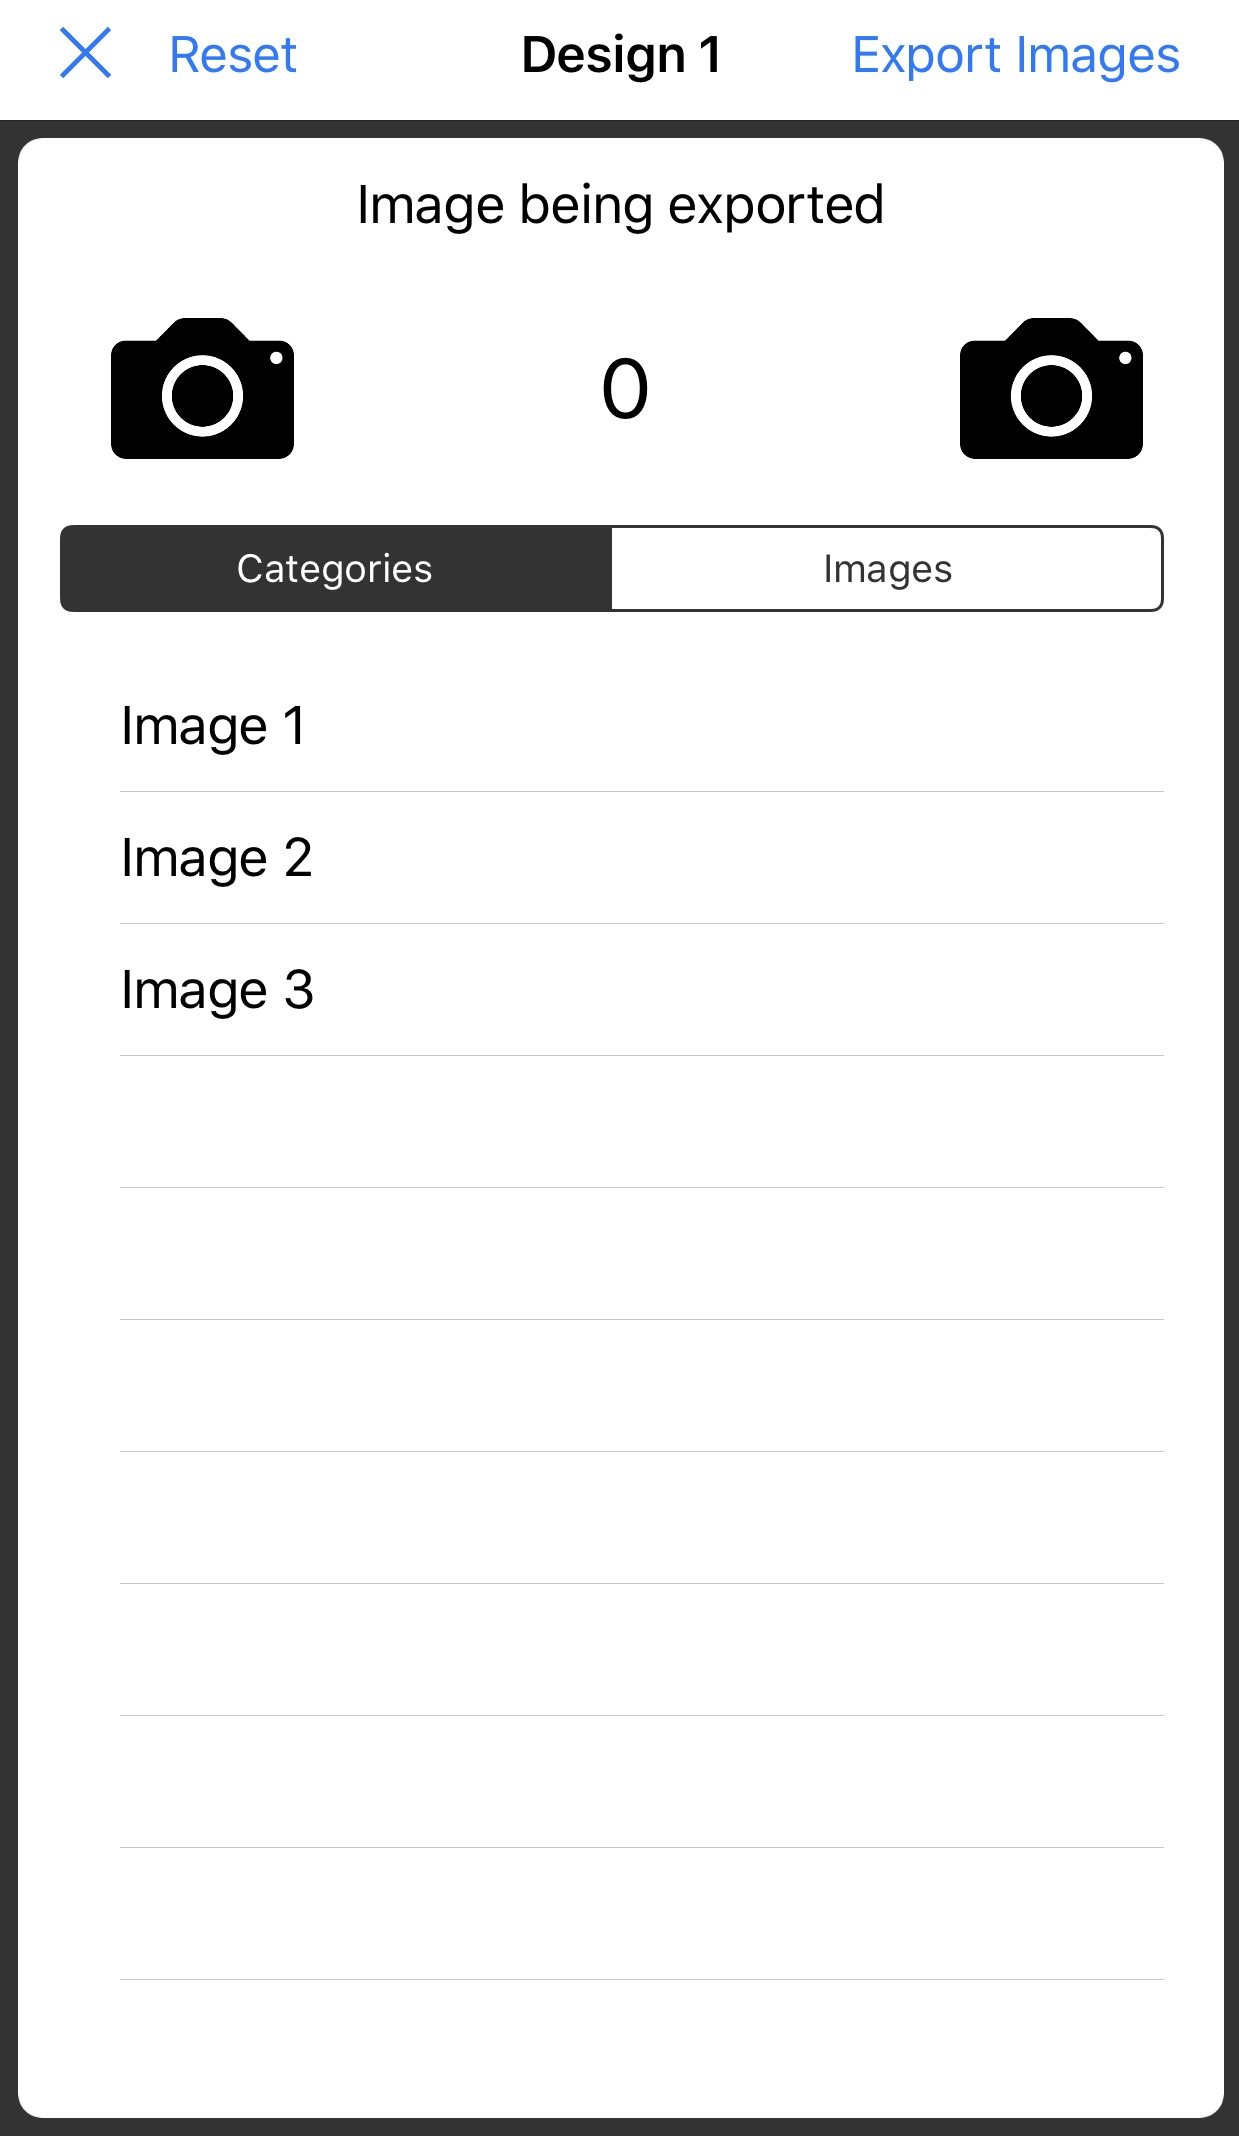
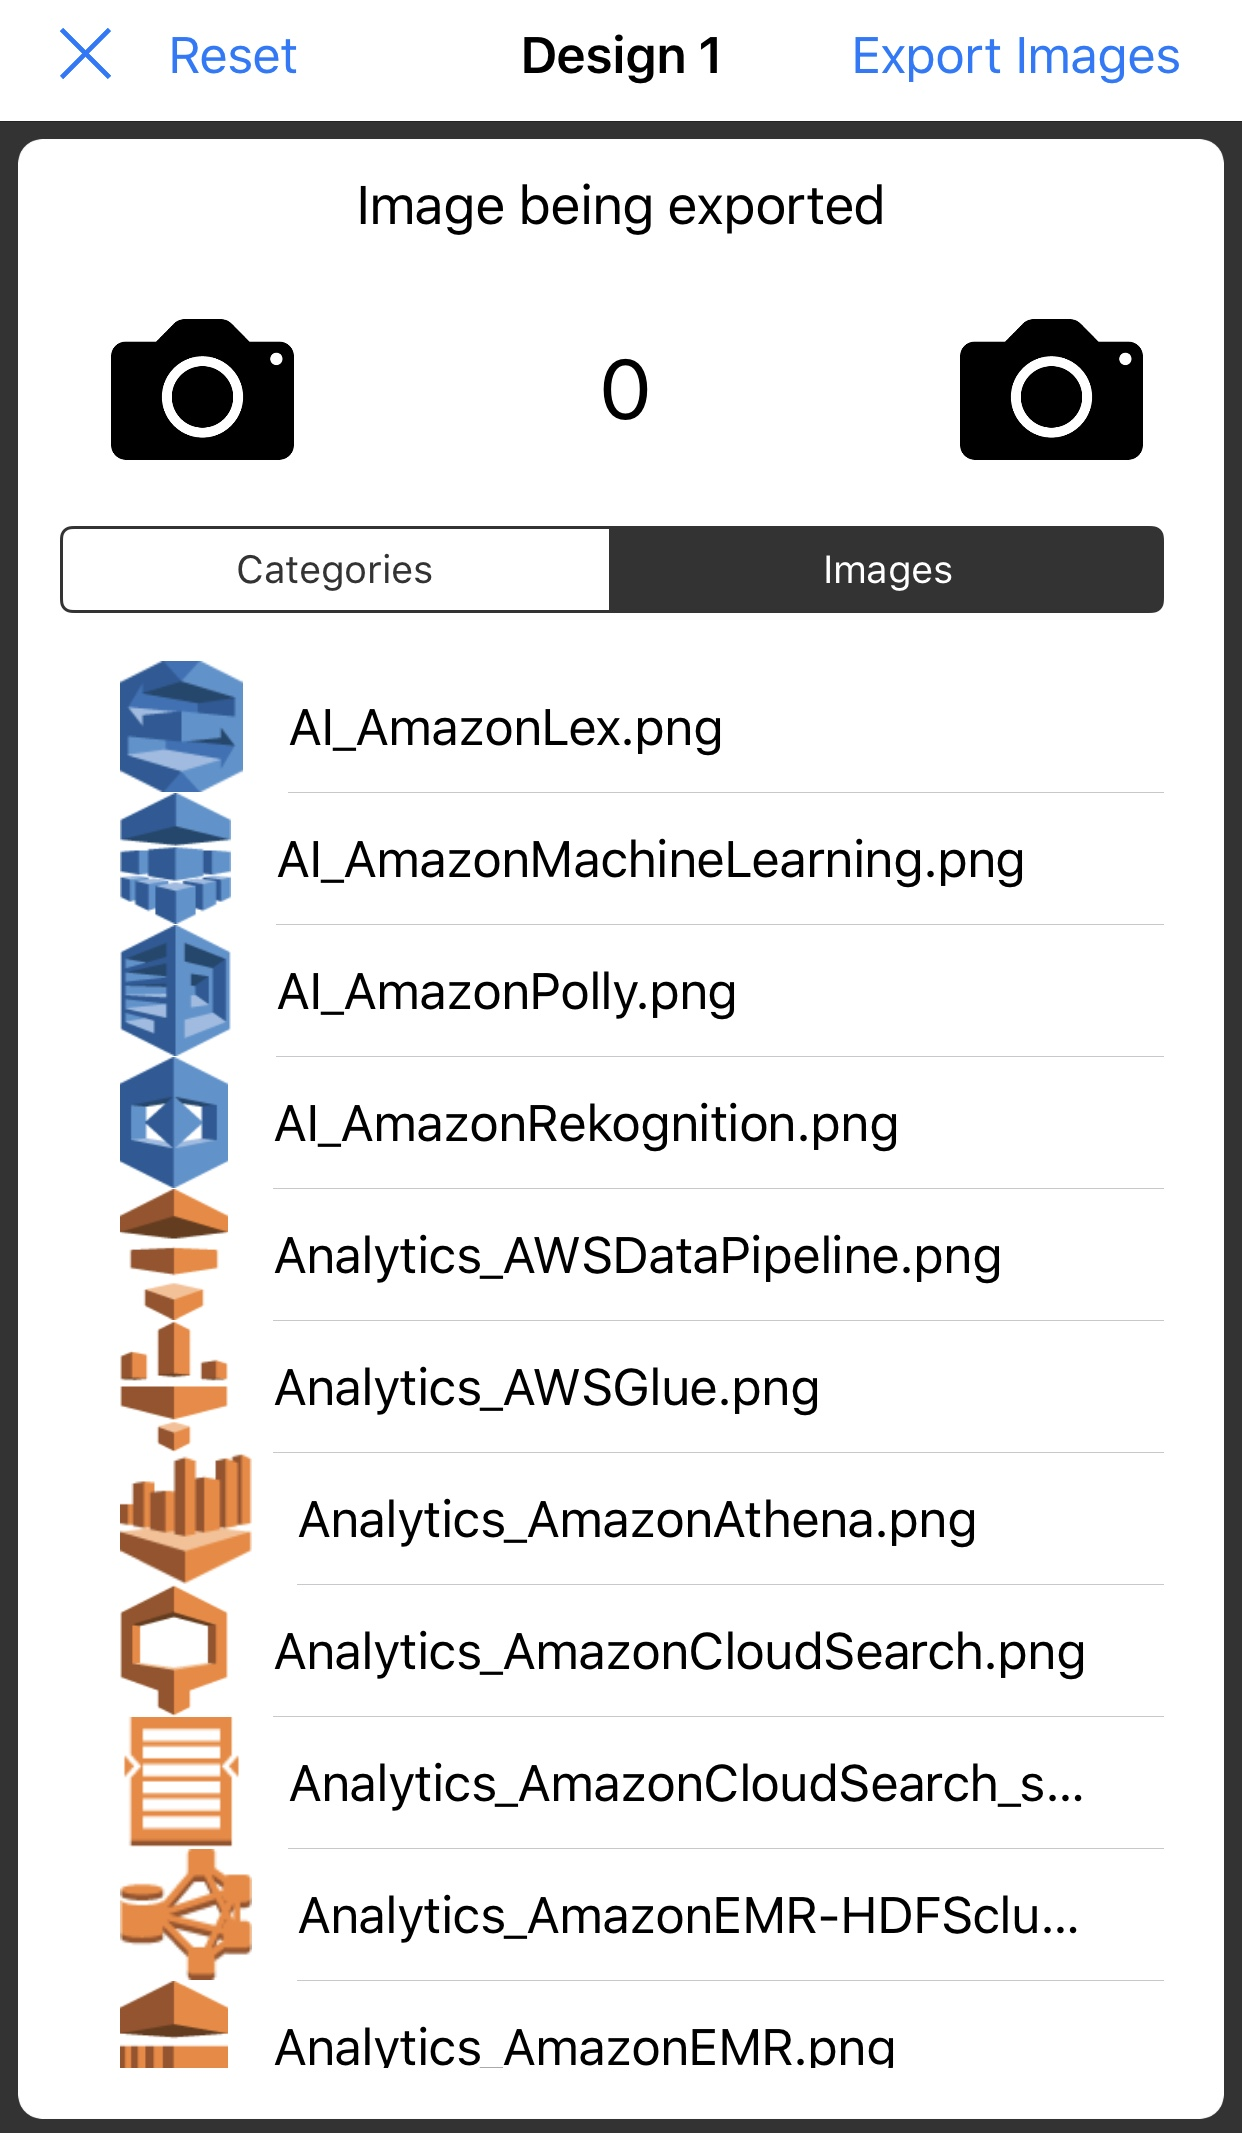
better list

diff --git a/Playground/GUI-Design1.py b/Playground/GUI-Design1.py
@@ -7,6 +7,8 @@ Design Notes:
 """
 
 import ui
+import os
+from glob import glob
 
 def set_layout_view_style(view):
     view_options = dict(
@@ -33,11 +35,27 @@ left_buttons = [
     )
 ]
 
+# load sample images
+source_glob = os.path.normpath(
+    os.path.join('..','images','*.png')
+)
+
+sample_images = list(glob(source_glob))[0:19]
+images_list = []
+for image in sample_images:
+    images_list.append({
+        'image': ui.Image(image),
+        'title': os.path.basename(image)
+    })
+
+list_data = ui.ListDataSource(images_list)
+
 v = ui.load_view()
 
 # Setup Layout View
 set_layout_view_style(v)
 v.right_button_items = right_buttons
 v.left_button_items = left_buttons
+v['main']['images'].data_source = list_data
 v.present('sheet')
 #v.present('panel')
